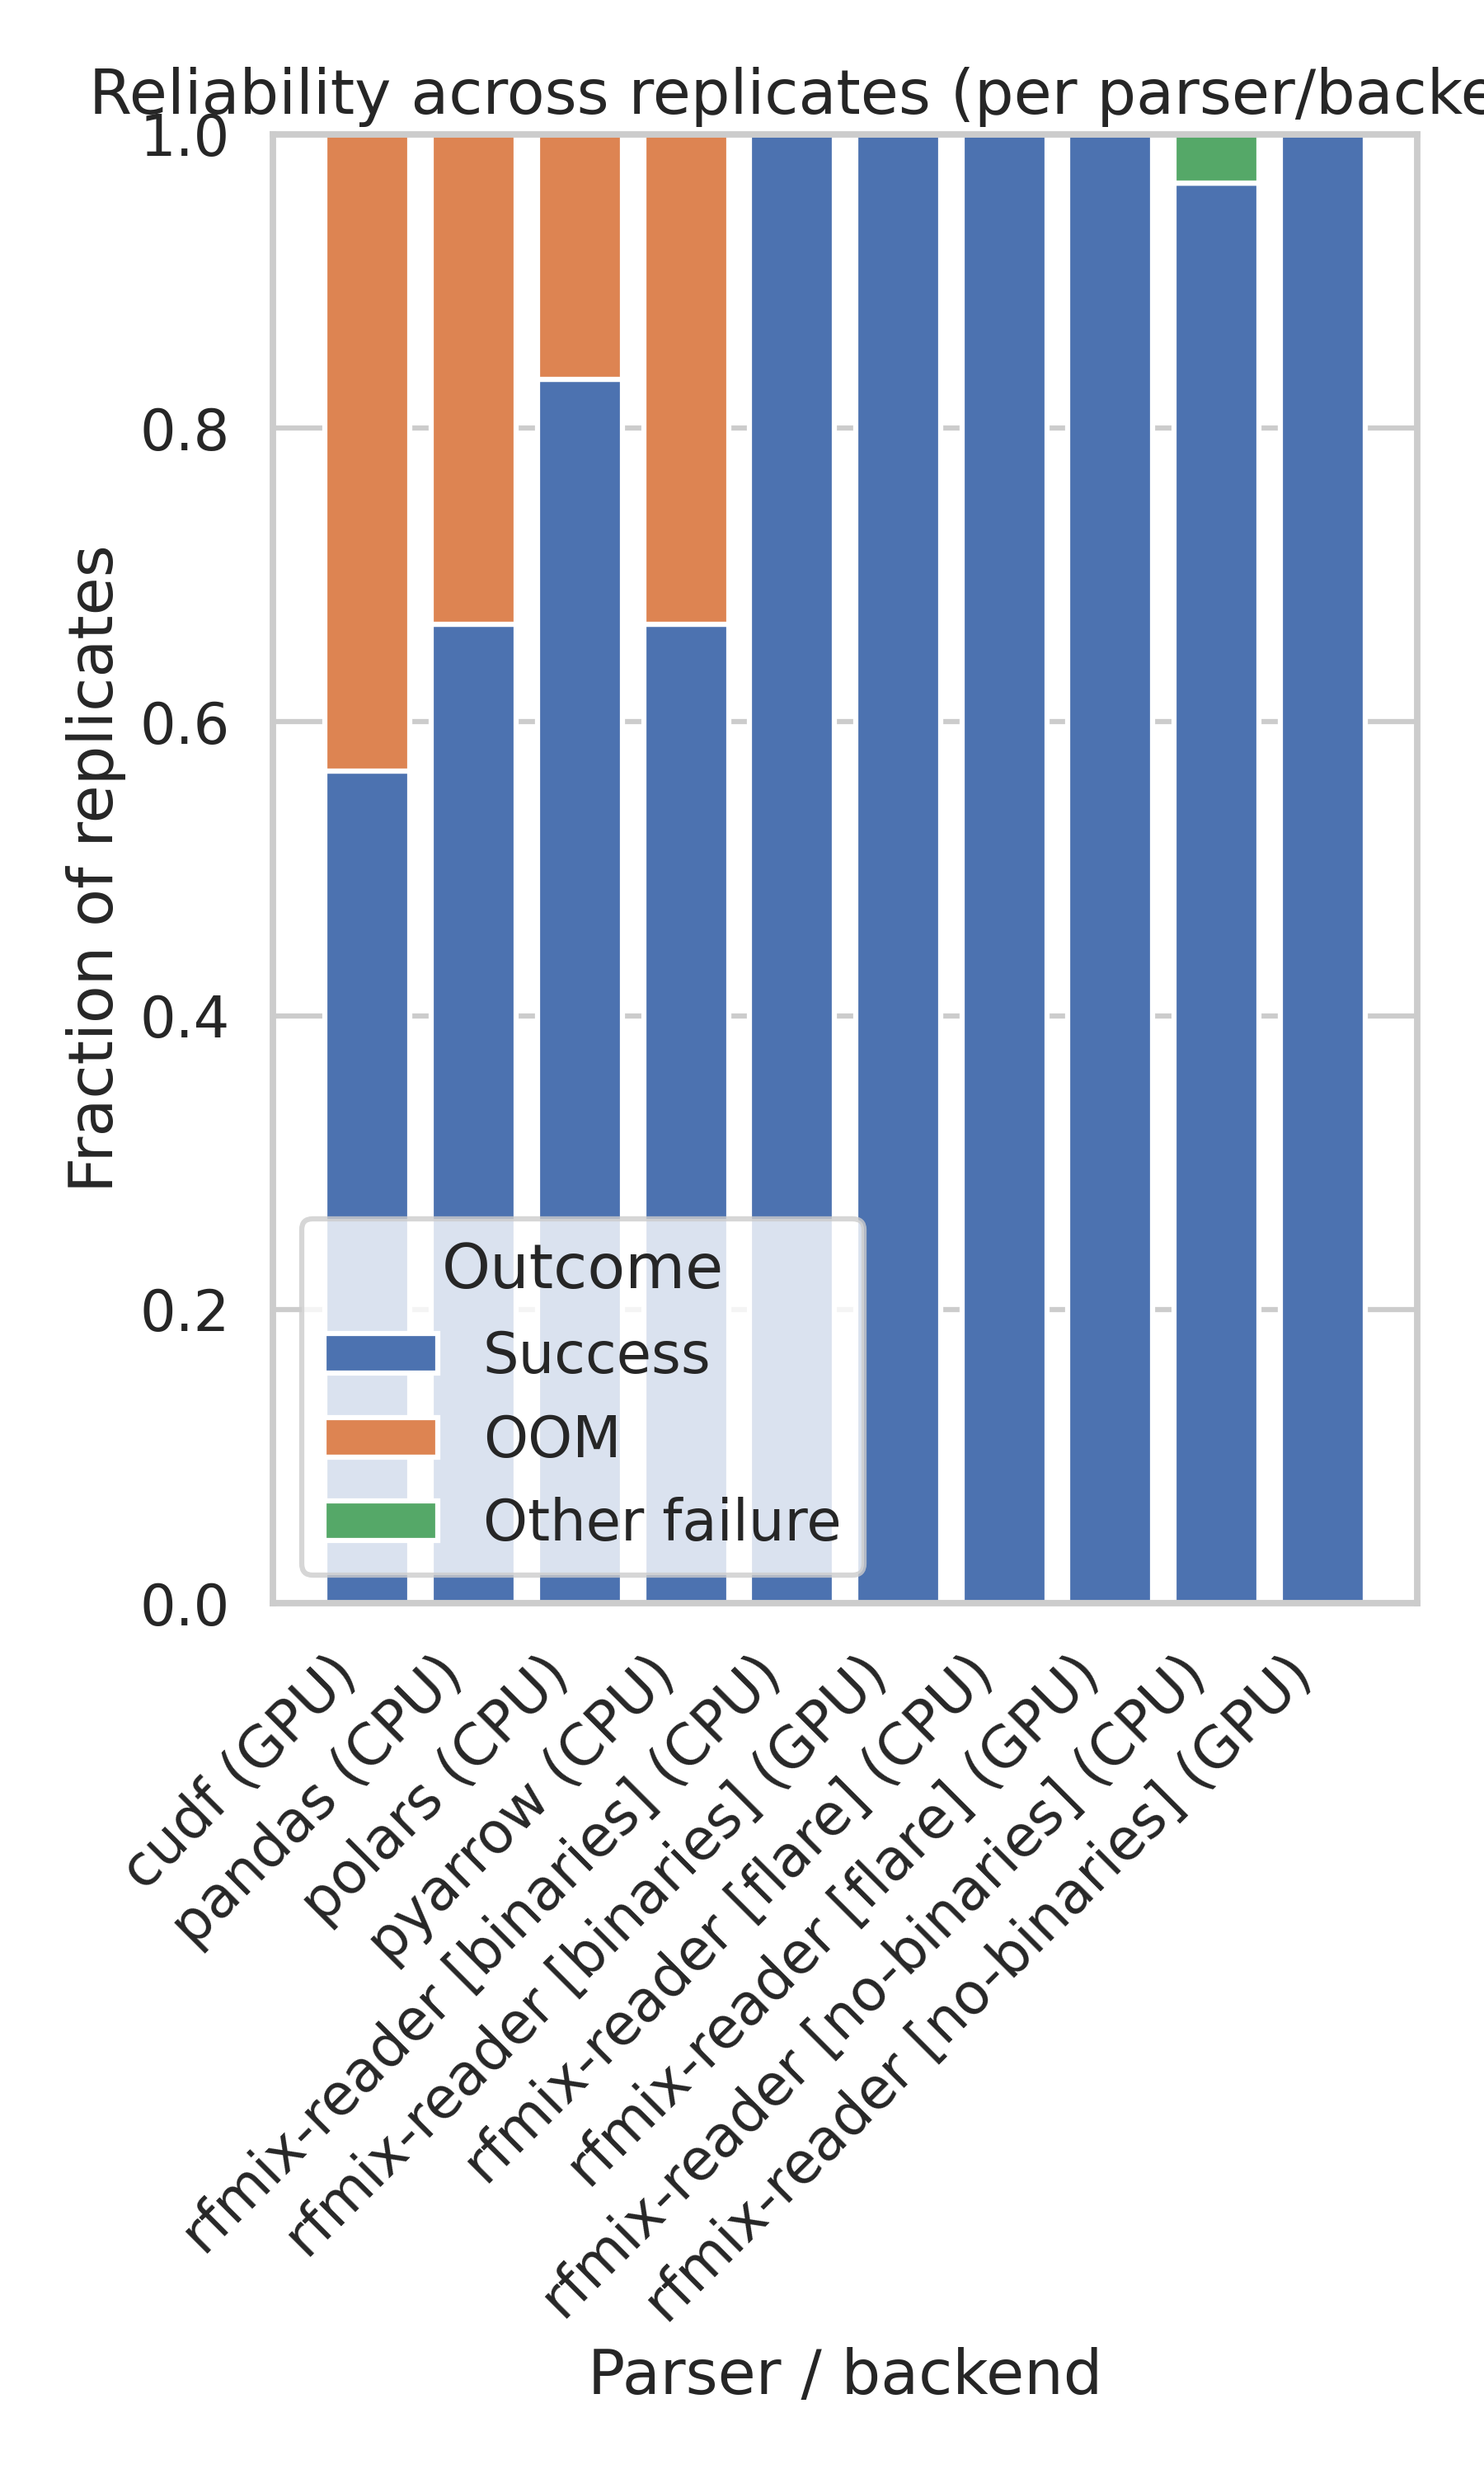
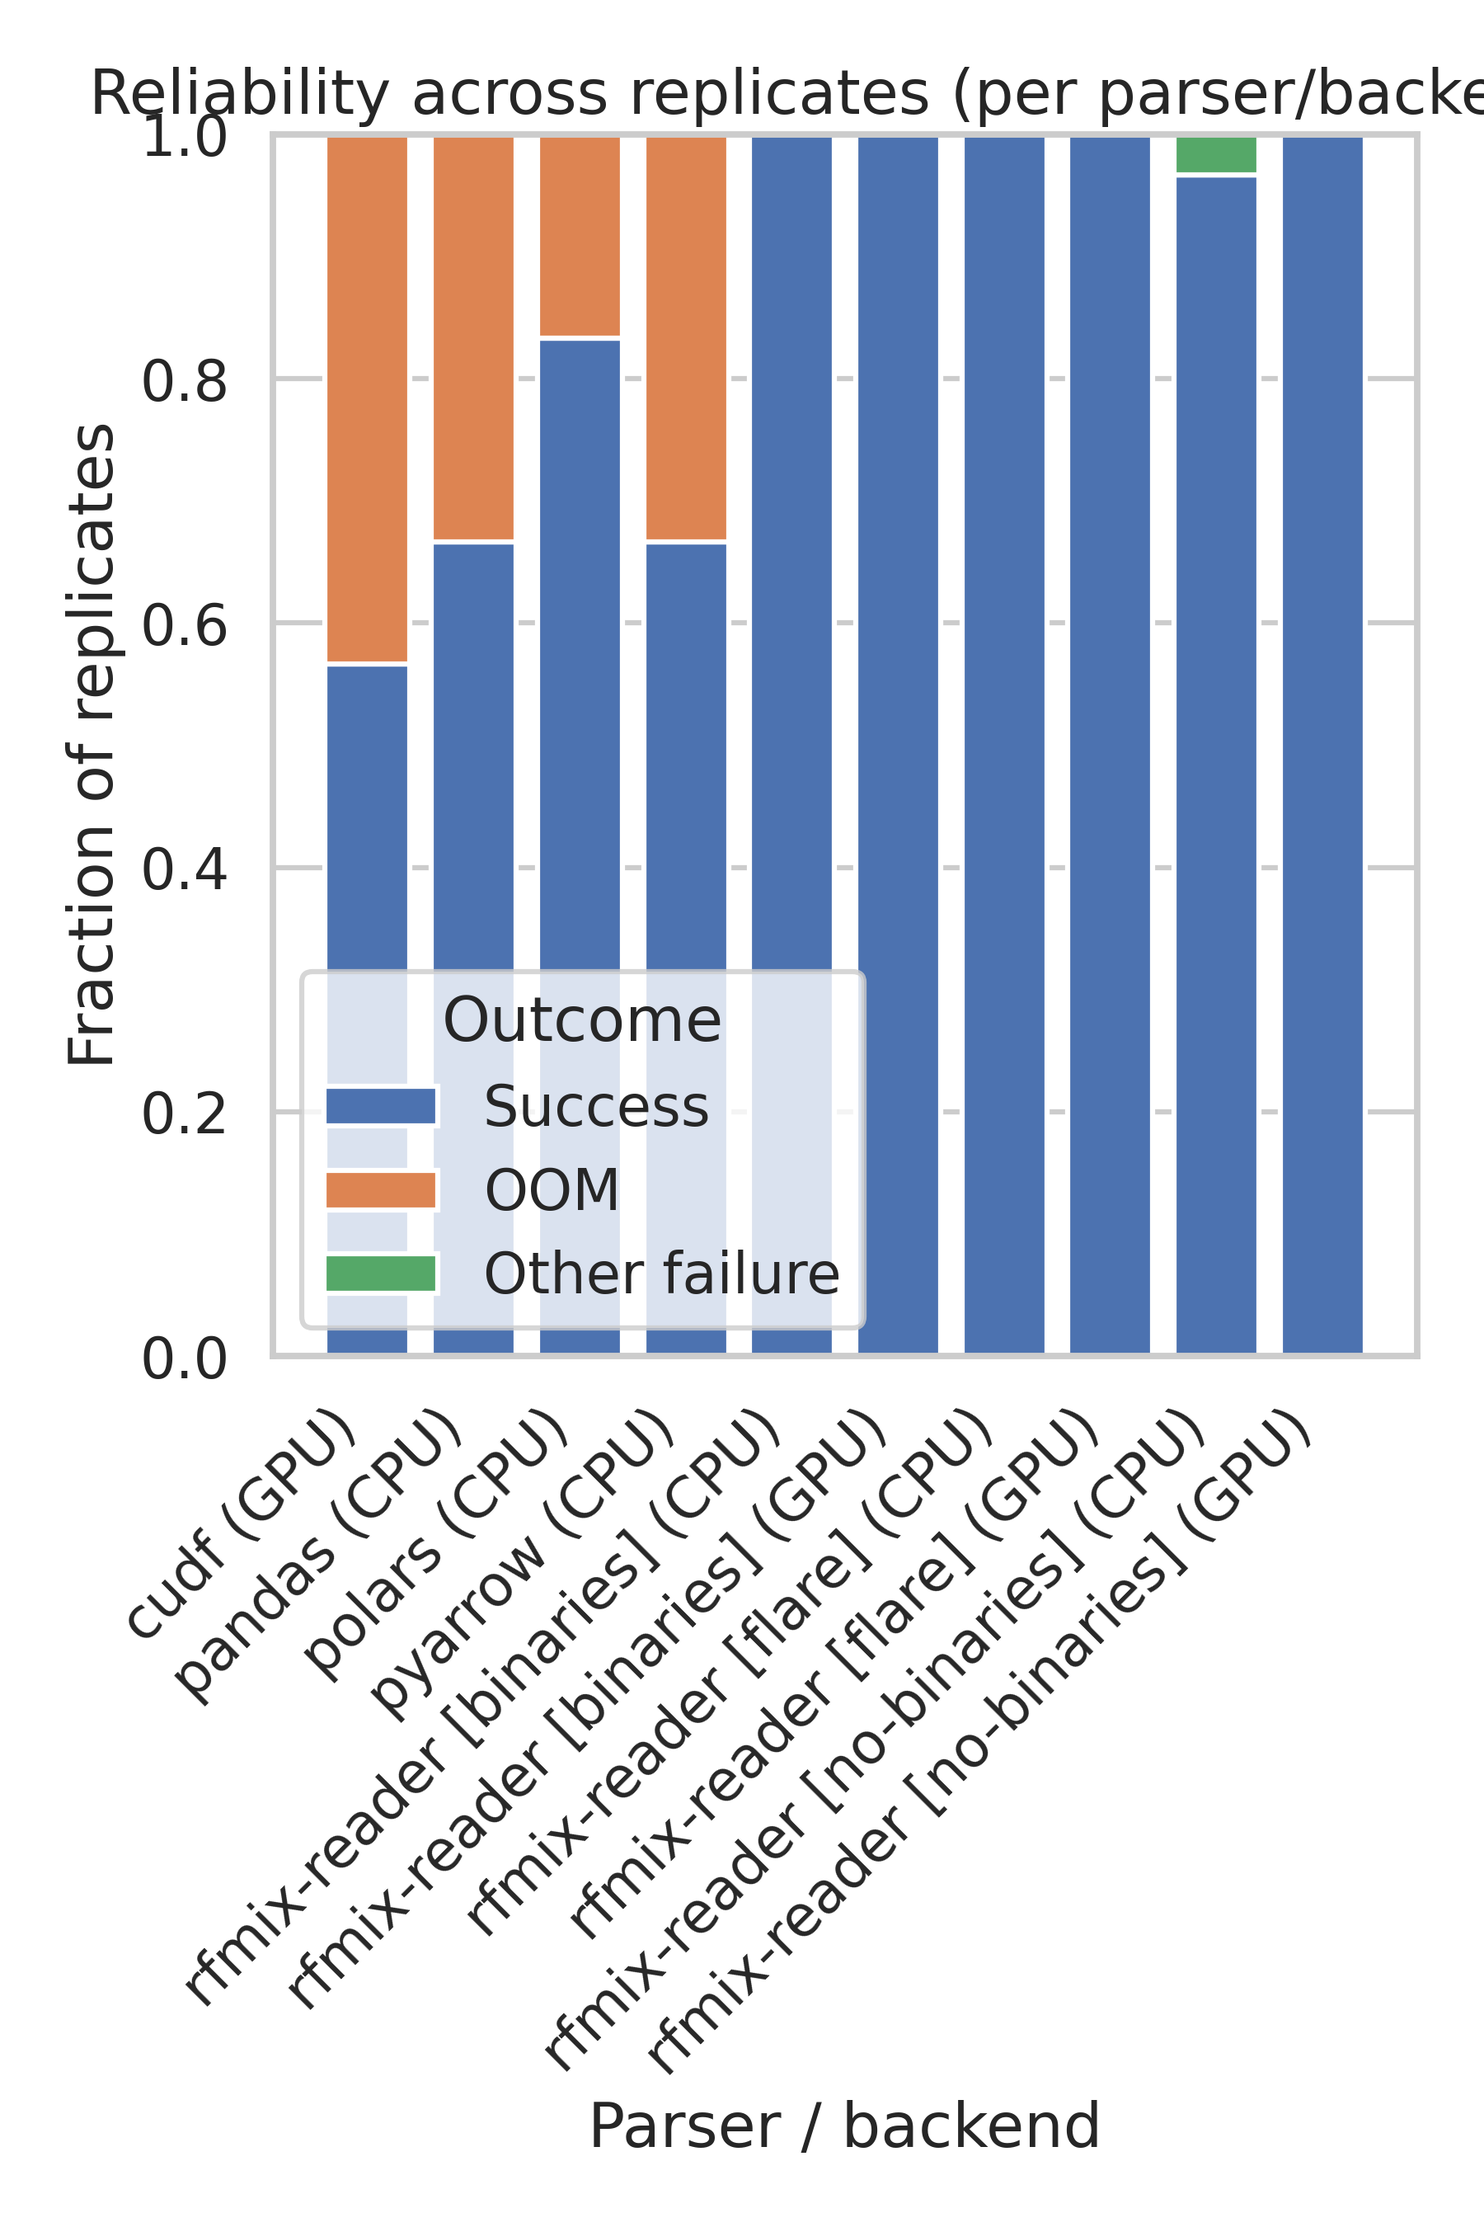
updating plots and files

diff --git a/benchmarks/results/_h/02.metrics_analysis.py b/benchmarks/results/_h/02.metrics_analysis.py
@@ -372,7 +372,7 @@ def make_reliability_figure(summary: pd.DataFrame, out_prefix: str | Path) -> No
     x = np.arange(len(agg))
     width = 0.8
 
-    fig, ax = plt.subplots(figsize=(6, 10))
+    fig, ax = plt.subplots(figsize=(6, 9))
 
     bottom = np.zeros(len(agg))
 
